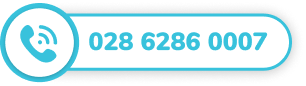
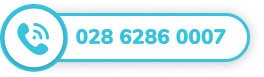
upfile

diff --git a/booking.html b/booking.html
@@ -201,7 +201,7 @@
         </div>
       </div>
     </div>
-    <div id="footer-nav"><a href="#"><img src="assets/img/call.png" alt=""></a><a href="#"><img src="assets/img/booking.png" alt=""></a></div>
+    <div id="footer-nav"><a href="tel:02862860007"><img src="assets/img/call.png" alt=""></a><a href="booking.html"><img src="assets/img/booking.png" alt=""></a></div>
     <script type="text/javascript" src="assets/js/jquery.js"></script>
     <script type="text/javascript" src="assets/js/owl.carousel.js"></script>
     <script type="text/javascript" src="assets/js/aos.js"></script>

diff --git a/contact.html b/contact.html
@@ -215,7 +215,7 @@
         </div>
       </div>
     </div>
-    <div id="footer-nav"><a href="#"><img src="assets/img/call.png" alt=""></a><a href="#"><img src="assets/img/booking.png" alt=""></a></div>
+    <div id="footer-nav"><a href="tel:02862860007"><img src="assets/img/call.png" alt=""></a><a href="booking.html"><img src="assets/img/booking.png" alt=""></a></div>
     <script type="text/javascript" src="assets/js/jquery.js"></script>
     <script type="text/javascript" src="assets/js/owl.carousel.js"></script>
     <script type="text/javascript" src="assets/js/aos.js"></script>

diff --git a/dichvu.html b/dichvu.html
@@ -218,7 +218,7 @@
         </div>
       </div>
     </div>
-    <div id="footer-nav"><a href="#"><img src="assets/img/call.png" alt=""></a><a href="#"><img src="assets/img/booking.png" alt=""></a></div>
+    <div id="footer-nav"><a href="tel:02862860007"><img src="assets/img/call.png" alt=""></a><a href="booking.html"><img src="assets/img/booking.png" alt=""></a></div>
     <script type="text/javascript" src="assets/js/jquery.js"></script>
     <script type="text/javascript" src="assets/js/owl.carousel.js"></script>
     <script type="text/javascript" src="assets/js/aos.js"></script>

diff --git a/giohang.html b/giohang.html
@@ -224,7 +224,7 @@
         </div>
       </div>
     </div>
-    <div id="footer-nav"><a href="#"><img src="assets/img/call.png" alt=""></a><a href="#"><img src="assets/img/booking.png" alt=""></a></div>
+    <div id="footer-nav"><a href="tel:02862860007"><img src="assets/img/call.png" alt=""></a><a href="booking.html"><img src="assets/img/booking.png" alt=""></a></div>
     <script type="text/javascript" src="assets/js/jquery.js"></script>
     <script type="text/javascript" src="assets/js/owl.carousel.js"></script>
     <script type="text/javascript" src="assets/js/aos.js"></script>

diff --git a/index.html b/index.html
@@ -309,7 +309,7 @@
         </div>
       </div>
     </div>
-    <div id="footer-nav"><a href="#"><img src="assets/img/call.png" alt=""></a><a href="#"><img src="assets/img/booking.png" alt=""></a></div>
+    <div id="footer-nav"><a href="tel:02862860007"><img src="assets/img/call.png" alt=""></a><a href="booking.html"><img src="assets/img/booking.png" alt=""></a></div>
     <script type="text/javascript" src="assets/js/jquery.js"></script>
     <script type="text/javascript" src="assets/js/owl.carousel.js"></script>
     <script type="text/javascript" src="assets/js/aos.js"></script>

diff --git a/introduce.html b/introduce.html
@@ -231,7 +231,7 @@
         </div>
       </div>
     </div>
-    <div id="footer-nav"><a href="#"><img src="assets/img/call.png" alt=""></a><a href="#"><img src="assets/img/booking.png" alt=""></a></div>
+    <div id="footer-nav"><a href="tel:02862860007"><img src="assets/img/call.png" alt=""></a><a href="booking.html"><img src="assets/img/booking.png" alt=""></a></div>
     <script type="text/javascript" src="assets/js/jquery.js"></script>
     <script type="text/javascript" src="assets/js/owl.carousel.js"></script>
     <script type="text/javascript" src="assets/js/aos.js"></script>

diff --git a/news.html b/news.html
@@ -235,7 +235,7 @@
         </div>
       </div>
     </div>
-    <div id="footer-nav"><a href="#"><img src="assets/img/call.png" alt=""></a><a href="#"><img src="assets/img/booking.png" alt=""></a></div>
+    <div id="footer-nav"><a href="tel:02862860007"><img src="assets/img/call.png" alt=""></a><a href="booking.html"><img src="assets/img/booking.png" alt=""></a></div>
     <script type="text/javascript" src="assets/js/jquery.js"></script>
     <script type="text/javascript" src="assets/js/owl.carousel.js"></script>
     <script type="text/javascript" src="assets/js/aos.js"></script>

diff --git a/product-detail.html b/product-detail.html
@@ -269,7 +269,7 @@
         </div>
       </div>
     </div>
-    <div id="footer-nav"><a href="#"><img src="assets/img/call.png" alt=""></a><a href="#"><img src="assets/img/booking.png" alt=""></a></div>
+    <div id="footer-nav"><a href="tel:02862860007"><img src="assets/img/call.png" alt=""></a><a href="booking.html"><img src="assets/img/booking.png" alt=""></a></div>
     <script type="text/javascript" src="assets/js/jquery.js"></script>
     <script type="text/javascript" src="assets/js/owl.carousel.js"></script>
     <script type="text/javascript" src="assets/js/aos.js"></script>

diff --git a/sanpham.html b/sanpham.html
@@ -194,7 +194,7 @@
         </div>
       </div>
     </div>
-    <div id="footer-nav"><a href="#"><img src="assets/img/call.png" alt=""></a><a href="#"><img src="assets/img/booking.png" alt=""></a></div>
+    <div id="footer-nav"><a href="tel:02862860007"><img src="assets/img/call.png" alt=""></a><a href="booking.html"><img src="assets/img/booking.png" alt=""></a></div>
     <script type="text/javascript" src="assets/js/jquery.js"></script>
     <script type="text/javascript" src="assets/js/owl.carousel.js"></script>
     <script type="text/javascript" src="assets/js/aos.js"></script>

diff --git a/service-detail.html b/service-detail.html
@@ -289,7 +289,7 @@
         </div>
       </div>
     </div>
-    <div id="footer-nav"><a href="#"><img src="assets/img/call.png" alt=""></a><a href="#"><img src="assets/img/booking.png" alt=""></a></div>
+    <div id="footer-nav"><a href="tel:02862860007"><img src="assets/img/call.png" alt=""></a><a href="booking.html"><img src="assets/img/booking.png" alt=""></a></div>
     <script type="text/javascript" src="assets/js/jquery.js"></script>
     <script type="text/javascript" src="assets/js/owl.carousel.js"></script>
     <script type="text/javascript" src="assets/js/aos.js"></script>

diff --git a/thanhtoan.html b/thanhtoan.html
@@ -209,7 +209,7 @@
         </div>
       </div>
     </div>
-    <div id="footer-nav"><a href="#"><img src="assets/img/call.png" alt=""></a><a href="#"><img src="assets/img/booking.png" alt=""></a></div>
+    <div id="footer-nav"><a href="tel:02862860007"><img src="assets/img/call.png" alt=""></a><a href="booking.html"><img src="assets/img/booking.png" alt=""></a></div>
     <script type="text/javascript" src="assets/js/jquery.js"></script>
     <script type="text/javascript" src="assets/js/owl.carousel.js"></script>
     <script type="text/javascript" src="assets/js/aos.js"></script>

diff --git a/assets/css/theme.css b/assets/css/theme.css
@@ -1899,7 +1899,10 @@ input::-webkit-input-placeholder, select::-webkit-input-placeholder, input:-ms-i
   justify-content: space-between;
   z-index: 20;
   width: 100%;
-  padding: 0 15px; }
+  padding: 0 15px;
+  -webkit-box-align: center;
+  -ms-flex-align: center;
+  align-items: center; }
   #footer-nav a {
     width: 49%; }
     #footer-nav a img {
